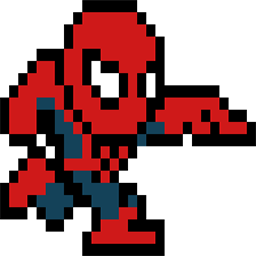
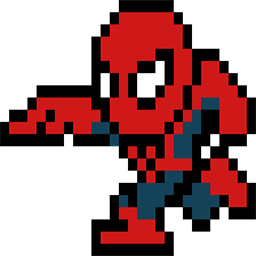
Added walking animation to basic zombie

diff --git a/core/src/com/zombie/shooter/actors/BasicZombie.java b/core/src/com/zombie/shooter/actors/BasicZombie.java
@@ -1,8 +1,12 @@
 package com.zombie.shooter.actors;
 
+import com.badlogic.gdx.Gdx;
 import com.badlogic.gdx.graphics.Texture;
+import com.badlogic.gdx.graphics.g2d.Animation;
 import com.badlogic.gdx.graphics.g2d.Batch;
 import com.badlogic.gdx.graphics.g2d.Sprite;
+import com.badlogic.gdx.graphics.g2d.TextureAtlas;
+import com.badlogic.gdx.graphics.g2d.TextureRegion;
 import com.badlogic.gdx.physics.box2d.Body;
 
 /**
@@ -11,11 +15,26 @@ import com.badlogic.gdx.physics.box2d.Body;
 
 public class BasicZombie extends Enemy {
 
-    private Sprite zombie;
+    private Animation<TextureRegion> runningAnimation;
+    TextureAtlas atlas;
+    // A variable for tracking elapsed time for the animation
+    float stateTime;
+
     public BasicZombie(Body body) {
         super(body);
-        zombie = new Sprite(new Texture("zombie.png"));
+        createIdleAnimation();
     }
+
+    private void createIdleAnimation() {
+        //Opens textureAtlas containing enemy spritesheet information
+        atlas = new TextureAtlas(Gdx.files.internal("GreenGoblin/pack.atlas"));
+        //Fetches all sprites matchin keyword 'spoder'
+        runningAnimation =
+                new Animation<TextureRegion>(0.1f, atlas.findRegions("spoder"), Animation.PlayMode.LOOP);
+        //Initializes statetime for this animation
+        stateTime = 0f;
+    }
+
 
     @Override
     public void draw(Batch batch, float parentAlpha) {
@@ -26,8 +45,12 @@ public class BasicZombie extends Enemy {
             stateTime += Gdx.graphics.getDeltaTime();
         }
         */
-
-        batch.draw(zombie, (screenRectangle.x - (screenRectangle.width * 0.1f)),
+        //Updates statetime according to gametime to keep animation running
+        stateTime += Gdx.graphics.getDeltaTime();
+        //Fetches frame to display
+        TextureRegion currentFrame = runningAnimation.getKeyFrame(stateTime, true);
+        //Draws frame
+        batch.draw(currentFrame, (screenRectangle.x - (screenRectangle.width * 0.1f)),
                 screenRectangle.y, screenRectangle.width * 1.2f, screenRectangle.height * 1.1f);
     }
 }
